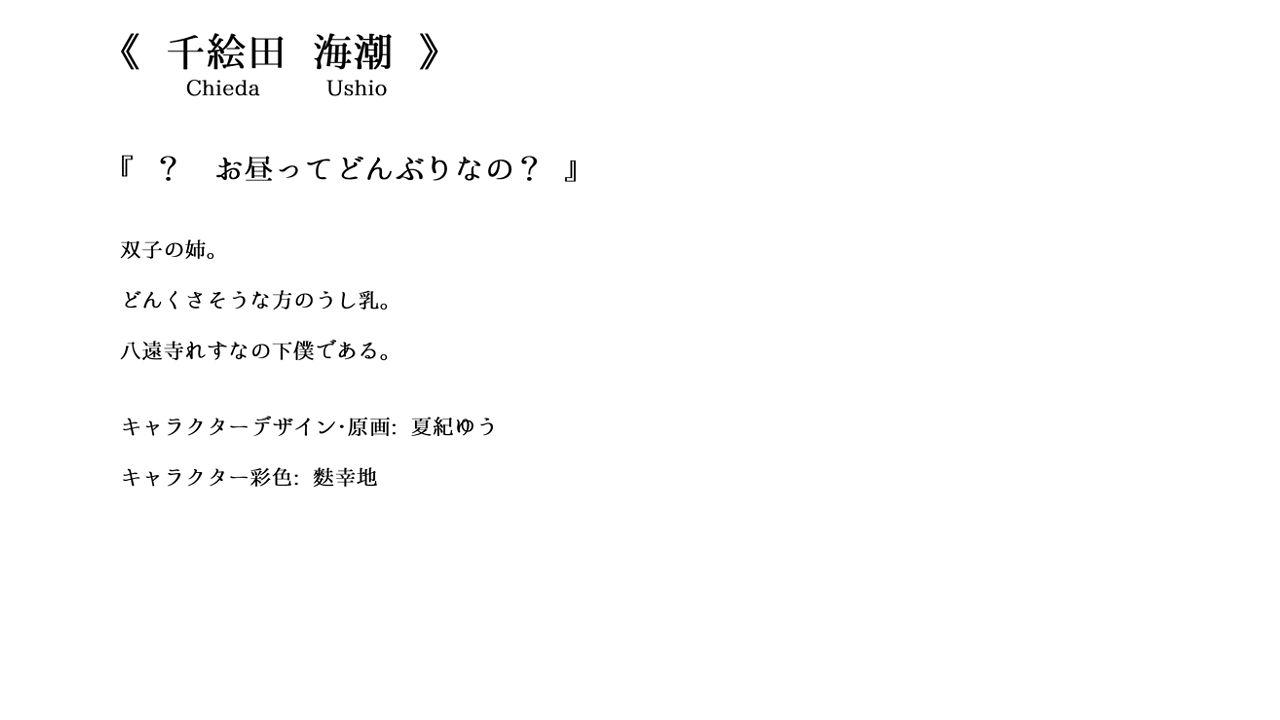
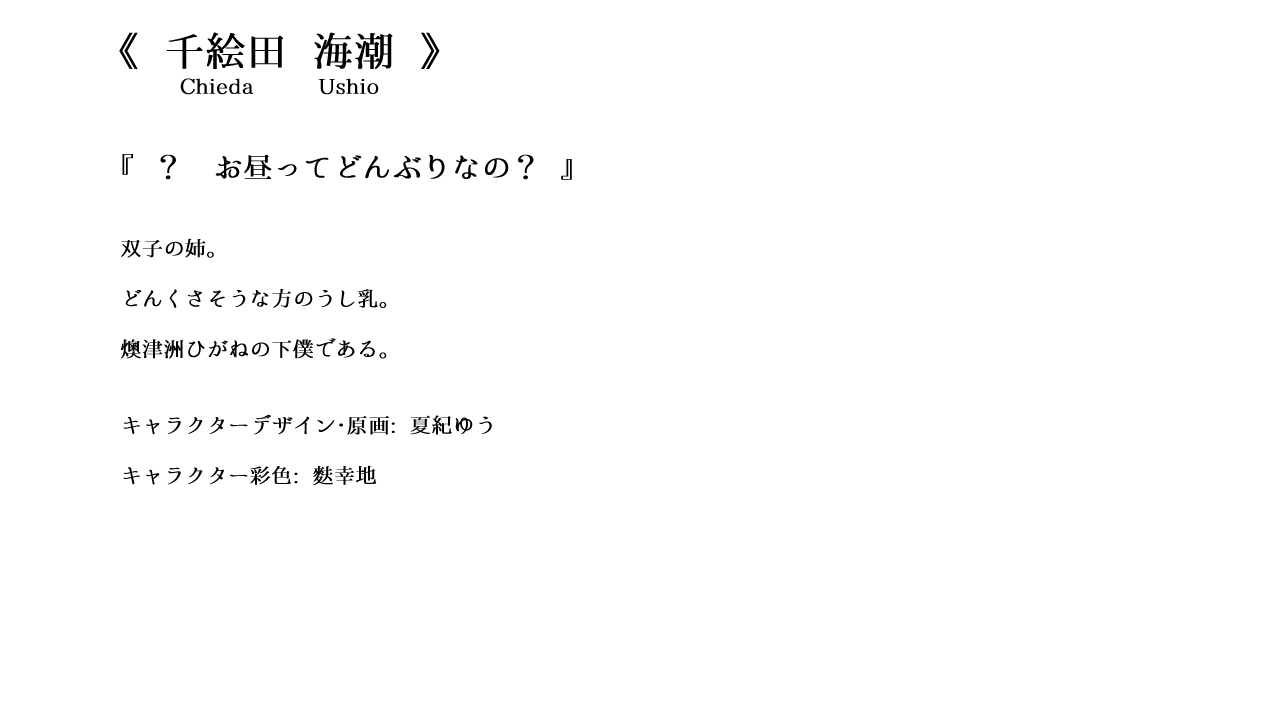
れすな→ひがね

diff --git a/pages/mayukara/index.js b/pages/mayukara/index.js
@@ -9,8 +9,8 @@ import Navigation from "./components/Navigation"
 import SectionHeader from "./components/Header"
 import FloatButtons from "./components/FloatButtons"
 import MayuChara from "./character"
-import {Col, Row} from 'antd';
-import Script from 'next/script'
+// import {Col, Row} from 'antd';
+// import Script from 'next/script'
 import BackTopButton from "./components/BackTopButton"
 import Graphics from "./graphics"
 import {DefaultSeo} from 'next-seo';
@@ -91,16 +91,17 @@ export default function Carankoe() {
                     cardType: 'summary',
                 }}
             />
-            <div style={{position: "fixed", top: "0px", zIndex: -4545}}>
-                <div style={{height: "100%", width: "100%"}}>
-                    <Image
-                        alt="Shikoshikoback"
-                        src={Background}
-                        width="100%"
-                        layout={"intrinsic"}
-                        style={{zIndex: -4545, objectFit: "cover"}}
-                    />
-                </div>
+            <div style={{position: "fixed", top: "0px", width: "100%", zIndex: -4545}}>
+                <Image
+                    alt="Shikoshikoback"
+                    src={Background}
+                    style={{
+                        zIndex: -4545,
+                        width: "100%",
+                        height: "100%",
+                        objectFit: "fill",
+                    }}
+                />
             </div>
             {!hideButton && (
                 <div style={{position: "fixed", top: "10px", width: "100%", zIndex: 14545}}>
@@ -115,7 +116,6 @@ export default function Carankoe() {
                         style={{
                             width: "100%",
                             objectFit: "contain",
-                            maxWidth: '100%',
                             height: 'auto',
                         }} />
                 </div>
@@ -157,7 +157,7 @@ export default function Carankoe() {
                         </div>
 
                     </div>
-                    <div id="update" style={{maxWidth: "1280px", marginLeft: "auto", marginRight: "auto", fontFamily: "cursive"}}>
+                    {/* <div id="update" style={{maxWidth: "1280px", marginLeft: "auto", marginRight: "auto", fontFamily: "cursive"}}>
                         <SectionHeader text="電報" />
                         <Row gutter={16} style={{margin: "2rem"}} justify="space-between">
                             <Col xs={24} sm={11} md={11} lg={11} xl={10} style={{background: "rgba(232, 212, 172, .6)"}} >
@@ -191,7 +191,7 @@ export default function Carankoe() {
                         </Row>
                         <Row gutter={16} justify="center" >
                         </Row>
-                    </div>
+                    </div> */}
                     <BackTopButton />
                     <div id="share" style={{textAlign: "center"}}>
                         <FloatButtons />

diff --git a/pages/mayukara/character/txts.jsx b/pages/mayukara/character/txts.jsx
@@ -126,7 +126,7 @@ export default function CharaTxt(selected) {
           <p>
             キャラクターデザイン・原画: あるぷすよ
             <br />
-            キャラクター彩色:
+            キャラクター彩色: くれは
             <br />
           </p>
         </p>
@@ -314,8 +314,7 @@ export default function CharaTxt(selected) {
             <br />
             どんくさそうな方のうし乳。
             <br />
-            八遠寺れすなの下僕である。
-            <br />
+            燠津洲ひがねの下僕である。
             <br />
           </p>
           <p>
@@ -337,8 +336,7 @@ export default function CharaTxt(selected) {
             <br />
             キャピキャピとしてる方のうし乳。
             <br />
-            八遠寺れすなの下僕である。
-            <br />
+            燠津洲ひがねの下僕である。
             <br />
           </p>
           <p>
@@ -349,26 +347,23 @@ export default function CharaTxt(selected) {
           </p>
         </p>
       );
-    case "Resuna":
+    case "Higane":
       return (
         <p>
           <p style={{ fontSize: "20px", fontWeight: "bold" }}>
-            『 ごめんなさいな。私、ヒトを驚かせるのが好きなものでして 』<br />
-          </p>
-          <p>
             『 申し訳ありませんわ。私、ヒトを驚かせるのが好きなものでして 』
             <br />
+          </p>
+          <p>
             繭ノ葉町に存在する娼館　翅爾蝶館 -ぎじちょうかん- のオンナ主人。
             <br />
             下僕として女子を二人連れては、度々にオモチャとして弄っている。
             <br />
-            面白いことを見つけたがり、つまらないことを嫌う。
-            <br />
-            ナニカを見透し、ナニカと語るが、その真意は誰にも判らず、視えもしない。
+            守琉へは戯れるようにナニカを語るが、その真意は不明。
             <br />
           </p>
           <p>
-            キャラクターデザイン・原画: はくがん
+            キャラクターデザイン・原画: 夏紀ゆう
             <br />
             キャラクター彩色: 夏紀ゆう
             <br />

diff --git a/pages/mayukara/character/index.jsx b/pages/mayukara/character/index.jsx
@@ -1,4 +1,4 @@
-import { Col, Row, Modal, Segmented, Button, Tooltip, Spin } from "antd";
+import { Col, Row, Modal, Segmented, Button, Spin } from "antd";
 import React, { useState, useMemo } from "react";
 import {
   LeftOutlined,
@@ -22,7 +22,7 @@ import iconKenji from "../../static/icons/icon11knj.png";
 import iconKomari from "../../static/icons/icon12kmr.png";
 import iconUshi from "../../static/icons/icon13uso.png";
 import iconUmi from "../../static/icons/icon14umn.png";
-import iconResuna from "../../static/icons/icon15rsn.png";
+import iconHigane from "../../static/icons/icon15hgn.png";
 import CharaTxt from "./txts";
 import CharaTxtImg from "./txtsImg";
 import CharaStands from "./stands";
@@ -41,7 +41,7 @@ import nameKenji from "../../static/names/kenji.png";
 import nameKomari from "../../static/names/komari.png";
 import nameUshio from "../../static/names/ushio.png";
 import nameUmino from "../../static/names/umino.png";
-import nameResuna from "../../static/names/resuna.png";
+import nameHigane from "../../static/names/higane.png";
 
 const mamoru = {
   names: "犬無 守琉",
@@ -155,12 +155,12 @@ const umino = {
   icon: iconUmi,
   options: ["1", "2"],
 };
-const resuna = {
-  names: "八遠寺 れすな",
-  name_sub: "Hachionji Resuna",
-  name_img: nameResuna,
-  selected_name: "Resuna",
-  icon: iconResuna,
+const higane = {
+  names: "燠津洲 ひがね",
+  name_sub: "Okitsushima Higane",
+  name_img: nameHigane,
+  selected_name: "Higane",
+  icon: iconHigane,
   options: ["1", "2"],
 };
 const pcList1 = [
@@ -178,7 +178,7 @@ const pcList1 = [
   komari,
   ushio,
   umino,
-  resuna,
+  higane,
 ];
 
 export default function MayuChara({ width }) {
@@ -475,8 +475,8 @@ export default function MayuChara({ width }) {
                     )}
                     <Button
                       style={{
-                        position: "fixed",
-                        right: "200px",
+                        position: "absolute",
+                        right: "5%",
                         top: "85%",
                         zIndex: "198585",
                       }}

diff --git a/pages/mayukara/character/stands.jsx b/pages/mayukara/character/stands.jsx
@@ -32,10 +32,10 @@ import ushio1 from "../../static/stands/S13uso1.png";
 import ushio2 from "../../static/stands/S13uso2.png";
 import umino1 from "../../static/stands/S14umn1.png";
 import umino2 from "../../static/stands/S14umn2.png";
-import resuna1 from "../../static/stands/S15rsn1.png";
-import resuna2 from "../../static/stands/S15rsn2.png";
+import higane1 from "../../static/stands/S15hgn1.png";
+import higane2 from "../../static/stands/S15hgn2.png";
 
-export default function CharaStands(selected, value, width, height) {
+export default function CharaStands(selected, value) {
   const imgArea = (src) => {
     if (src) {
       return (
@@ -152,11 +152,11 @@ export default function CharaStands(selected, value, width, height) {
           {value === "2" && imgArea(umino2)}
         </>
       );
-    case "Resuna":
+    case "Higane":
       return (
         <>
-          {value === "1" && imgArea(resuna1)}
-          {value === "2" && imgArea(resuna2)}
+          {value === "1" && imgArea(higane1)}
+          {value === "2" && imgArea(higane2)}
         </>
       );
   }

diff --git a/pages/mayukara/character/standsmobile.jsx b/pages/mayukara/character/standsmobile.jsx
@@ -32,8 +32,8 @@ import ushio1 from "../../static/mobile/m13uso1.png";
 import ushio2 from "../../static/mobile/m13uso2.png";
 import umino1 from "../../static/mobile/m14umn1.png";
 import umino2 from "../../static/mobile/m14umn2.png";
-import resuna1 from "../../static/mobile/m15rsn1.png";
-import resuna2 from "../../static/mobile/m15rsn2.png";
+import higane1 from "../../static/mobile/m15hgn1.png";
+import higane2 from "../../static/mobile/m15hgn2.png";
 
 export default function CharaStandsMobile(selected, value) {
   const imgArea = (src) => {
@@ -152,11 +152,11 @@ export default function CharaStandsMobile(selected, value) {
           {value === "2" && imgArea(umino2)}
         </>
       );
-    case "Resuna":
+    case "Higane":
       return (
         <>
-          {value === "1" && imgArea(resuna1)}
-          {value === "2" && imgArea(resuna2)}
+          {value === "1" && imgArea(higane1)}
+          {value === "2" && imgArea(higane2)}
         </>
       );
   }

diff --git a/pages/mayukara/character/txtsImg.jsx b/pages/mayukara/character/txtsImg.jsx
@@ -12,7 +12,7 @@ import kenjiTxt from "../../static/stands/HP11knj.png"
 import komariTxt from "../../static/stands/HP12kmr.png"
 import usoTxt from "../../static/stands/HP13uso.png"
 import umnTxt from "../../static/stands/HP14umn.png"
-import resunaTxt from "../../static/stands/HP15rsn.png"
+import higaneTxt from "../../static/stands/HP15hgn.png"
 
 export default function CharaTxtImg(selected) {
 
@@ -45,7 +45,7 @@ export default function CharaTxtImg(selected) {
             return (usoTxt)
         case "Umino":
             return (umnTxt)
-        case "Resuna":
-            return (resunaTxt)
+        case "Higane":
+            return (higaneTxt)
     }
 }

diff --git a/pages/mayukara/components/Header.jsx b/pages/mayukara/components/Header.jsx
@@ -17,8 +17,6 @@ function SectionHeader({ text }) {
         return garou;
       case "小噺":
         return kobanashi;
-      case "電報":
-        return denpou;
       default:
         return undefined;
     }
